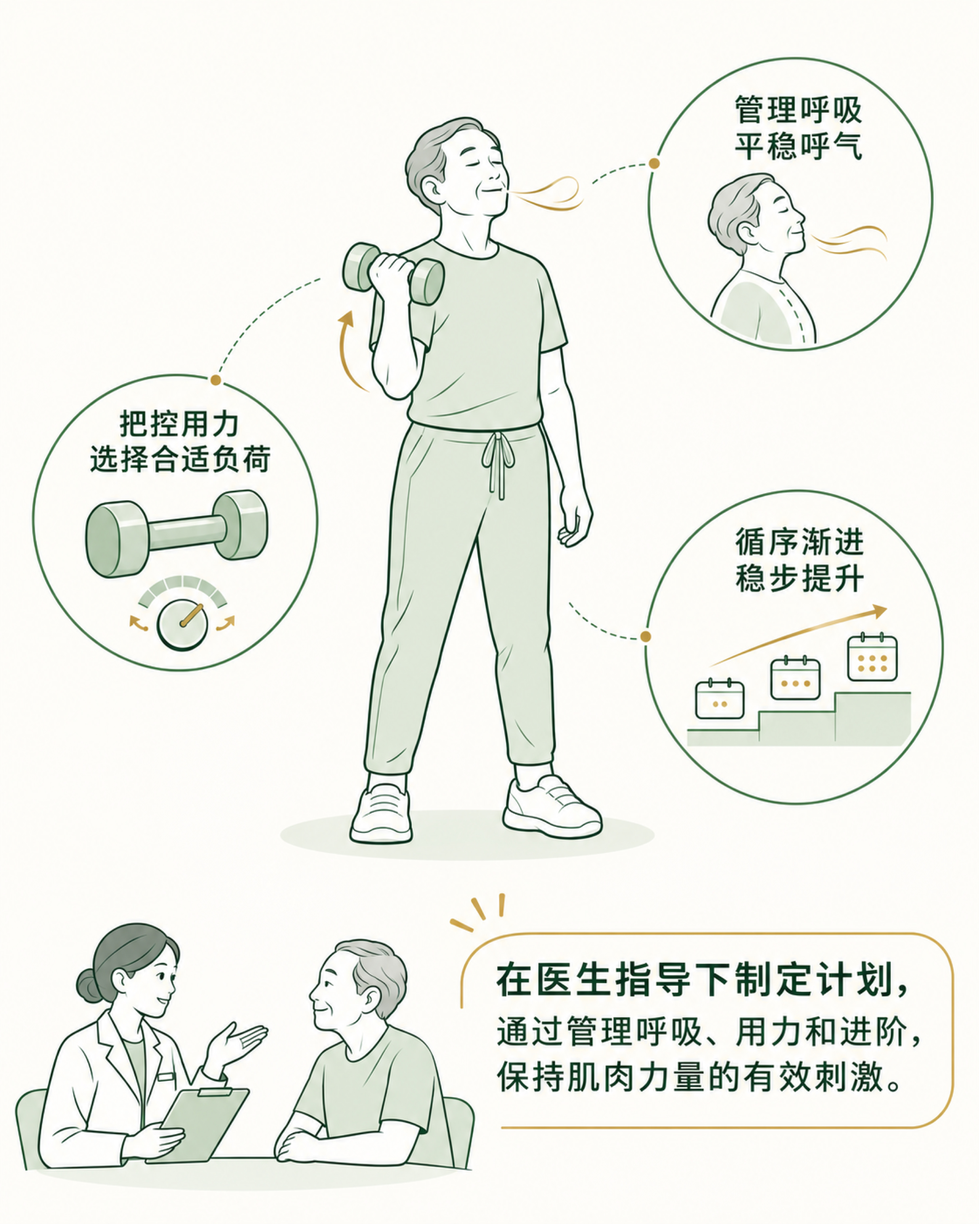
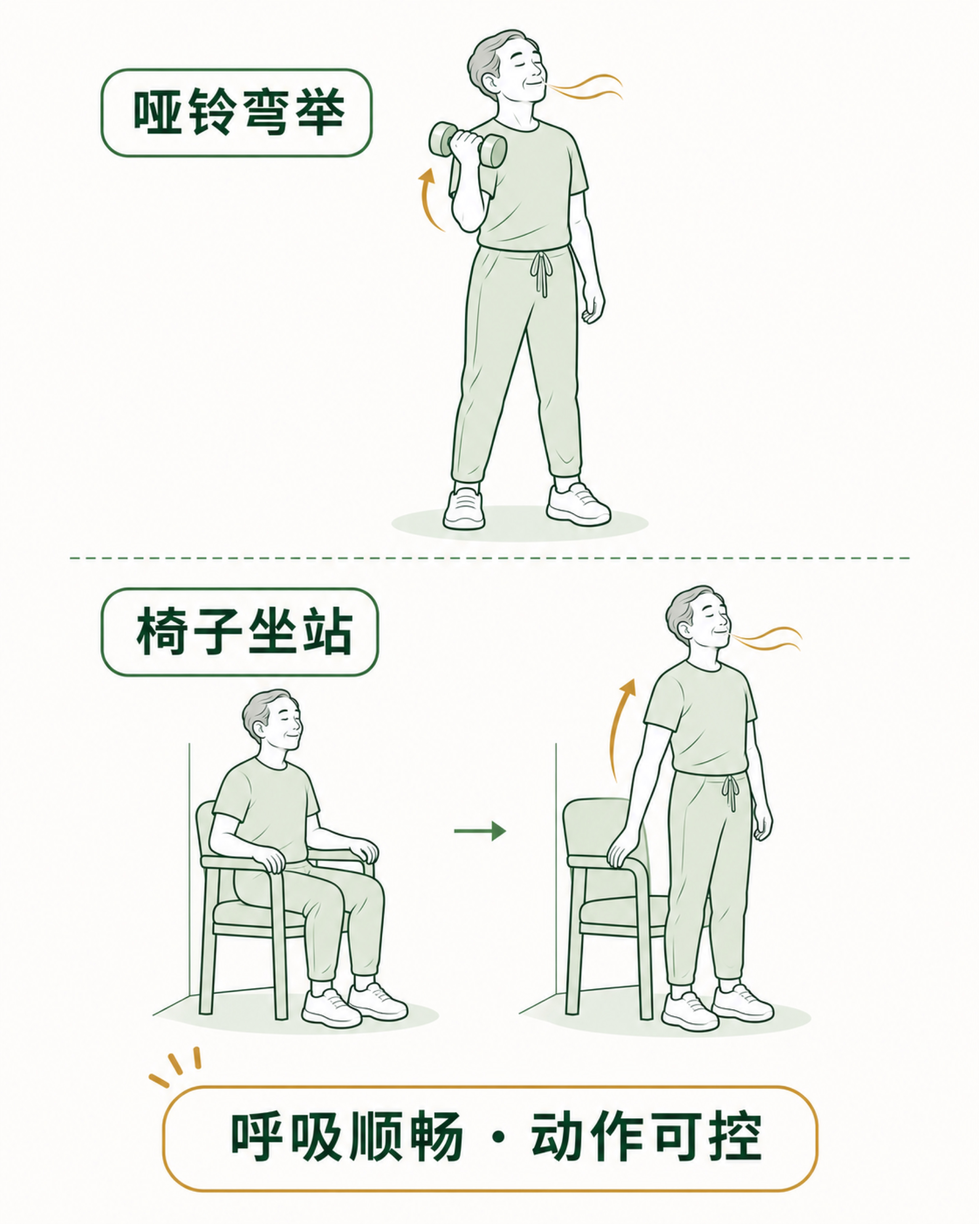
内容：同步公众号成品 2026-11-26

diff --git a/knowledge/README.md b/knowledge/README.md
@@ -63,6 +63,7 @@
 - [第 099 篇｜为什么精英运动员都有“心理教练”？](../platforms/wechat/articles/20261115_第099篇_为什么精英运动员都有“心理教练”？/20261115_第099篇_为什么精英运动员都有“心理教练”？.md)
 - [第 101 篇｜春节后的“报复性健身”，为什么让你更容易受伤？](../platforms/wechat/articles/20261117_第101篇_春节后的“报复性健身”，为什么让你更容易受伤？/20261117_第101篇_春节后的“报复性健身”，为什么让你更容易受伤？.md)
 - [第 108 篇｜中秋国庆长假：如何在旅行中保持身体状态？](../platforms/wechat/articles/20261121_第108篇_中秋国庆长假：如何在旅行中保持身体状态？/20261121_第108篇_中秋国庆长假：如何在旅行中保持身体状态？.md)
+- [第 115 篇｜提踵练强了，为什么一跑步跟腱还是吃不消？](../platforms/wechat/articles/20261126_第115篇_提踵练强了，为什么一跑步跟腱还是吃不消？/20261126_第115篇_提踵练强了，为什么一跑步跟腱还是吃不消？.md)
 
 ### 生活功能与长期健康
 
@@ -123,9 +124,9 @@
 - **站立**：[第 023 篇](../platforms/wechat/articles/20260818_第023篇_为什么瑜伽老师都强调“收腹”？因为腹横肌是你的天然腰带/20260818_第023篇_为什么瑜伽老师都强调“收腹”？因为腹横肌是你的天然腰带.md)、[第 025 篇](../platforms/wechat/articles/20260820_第025篇_为什么运动时要“收核心”？这不是玄学，是物理学/20260820_第025篇_为什么运动时要“收核心”？这不是玄学，是物理学.md)、[第 026 篇](../platforms/wechat/articles/20260821_第026篇_你的“将军肚”，可能是膈肌不会工作了/20260821_第026篇_你的“将军肚”，可能是膈肌不会工作了.md)、[第 032 篇](../platforms/wechat/articles/20260828_第032篇_足底筋膜炎：为什么早上第一步最疼？/20260828_第032篇_足底筋膜炎：为什么早上第一步最疼？.md)、[第 037 篇](../platforms/wechat/articles/20260902_第037篇_梨状肌综合征：屁股痛到腿麻，不一定是腰椎问题/20260902_第037篇_梨状肌综合征：屁股痛到腿麻，不一定是腰椎问题.md)、[第 039 篇](../platforms/wechat/articles/20260904_第039篇_跟腱炎：为什么休息了还是不好？/20260904_第039篇_跟腱炎：为什么休息了还是不好？.md)、[第 047 篇](../platforms/wechat/articles/20260913_第047篇_为什么有人天天练，你一周三次反而进步更快？/20260913_第047篇_为什么有人天天练，你一周三次反而进步更快？.md)、[第 073 篇](../platforms/wechat/articles/20261020_第073篇_为什么你的骨密度在悄悄流失？/20261020_第073篇_为什么你的骨密度在悄悄流失？.md)、[第 076 篇](../platforms/wechat/articles/20261023_第076篇_为什么你的父母越来越“走不动”？/20261023_第076篇_为什么你的父母越来越“走不动”？.md)、[第 077 篇](../platforms/wechat/articles/20261024_第077篇_骨质疏松不是“缺钙”那么简单/20261024_第077篇_骨质疏松不是“缺钙”那么简单.md)、[第 078 篇](../platforms/wechat/articles/20261025_第078篇_为什么老年人容易跌倒？如何预防？/20261025_第078篇_为什么老年人容易跌倒？如何预防？.md)、[第 081 篇](../platforms/wechat/articles/20261028_第081篇_糖尿病不可怕，可怕的是你不知道怎么“动”/20261028_第081篇_糖尿病不可怕，可怕的是你不知道怎么“动”.md)、[第 084 篇](../platforms/wechat/articles/20261031_第084篇_为什么你总是“腰酸背痛腿抽筋”？/20261031_第084篇_为什么你总是“腰酸背痛腿抽筋”？.md)、[第 090 篇](../platforms/wechat/articles/20261106_第090篇_正念运动：为什么瑜伽、太极能让你“身心合一”？/20261106_第090篇_正念运动：为什么瑜伽、太极能让你“身心合一”？.md)、[第 096 篇](../platforms/wechat/articles/20261112_第096篇_柔韧性 vs 灵活性：你真正需要的是哪个？/20261112_第096篇_柔韧性 vs 灵活性：你真正需要的是哪个？.md)、[第 106 篇](../platforms/wechat/articles/20261120_第106篇_久坐办公室开空调，为什么你的肩颈更僵硬了？/20261120_第106篇_久坐办公室开空调，为什么你的肩颈更僵硬了？.md)
 - **坐起**：[第 022 篇](../platforms/wechat/articles/20260817_第022篇_盆底肌松弛不是“生育税”，是可以逆转的/20260817_第022篇_盆底肌松弛不是“生育税”，是可以逆转的.md)、[第 028 篇](../platforms/wechat/articles/20260823_第028篇_跑步膝不是“跑”出来的，是“跑错”出来的/20260823_第028篇_跑步膝不是“跑”出来的，是“跑错”出来的.md)、[第 031 篇](../platforms/wechat/articles/20260827_第031篇_腰椎间盘突出≠腰痛，90% 的人都理解错了/20260827_第031篇_腰椎间盘突出≠腰痛，90% 的人都理解错了.md)、[第 033 篇](../platforms/wechat/articles/20260829_第033篇_半月板损伤后，你真的需要手术吗？/20260829_第033篇_半月板损伤后，你真的需要手术吗？.md)、[第 034 篇](../platforms/wechat/articles/20260830_第034篇_前交叉韧带重建术后，康复比手术更重要/20260830_第034篇_前交叉韧带重建术后，康复比手术更重要.md)、[第 036 篇](../platforms/wechat/articles/20260901_第036篇_髂腰肌综合征：你的“腰痛”可能在髋前/20260901_第036篇_髂腰肌综合征：你的“腰痛”可能在髋前.md)、[第 037 篇](../platforms/wechat/articles/20260902_第037篇_梨状肌综合征：屁股痛到腿麻，不一定是腰椎问题/20260902_第037篇_梨状肌综合征：屁股痛到腿麻，不一定是腰椎问题.md)、[第 042 篇](../platforms/wechat/articles/20260908_第042篇_弹响髋：为什么你的髋关节总是“咔咔”响？/20260908_第042篇_弹响髋：为什么你的髋关节总是“咔咔”响？.md)、[第 044 篇](../platforms/wechat/articles/20260910_第044篇_训练不是越狠越好，而是越“对”越好/20260910_第044篇_训练不是越狠越好，而是越“对”越好.md)、[第 050 篇](../platforms/wechat/articles/20260916_第050篇_运动后的“酸痛”是好事还是坏事？/20260916_第050篇_运动后的“酸痛”是好事还是坏事？.md)、[第 053 篇](../platforms/wechat/articles/20260919_第053篇_为什么运动员都在做“离心训练”？因为它能让你更强更抗伤/20260919_第053篇_为什么运动员都在做“离心训练”？因为它能让你更强更抗伤.md)、[第 065 篇](../platforms/wechat/articles/20261002_第065篇_产后 6 个月是黄金恢复期，错过了怎么办？/20261002_第065篇_产后 6 个月是黄金恢复期，错过了怎么办？.md)、[第 067 篇](../platforms/wechat/articles/20261004_第067篇_漏尿不是“生育税”，是可以逆转的/20261004_第067篇_漏尿不是“生育税”，是可以逆转的.md)、[第 072 篇](../platforms/wechat/articles/20261009_第072篇_孕期还能运动吗？不仅能，而且应该/20261009_第072篇_孕期还能运动吗？不仅能，而且应该.md)、[第 073 篇](../platforms/wechat/articles/20261020_第073篇_为什么你的骨密度在悄悄流失？/20261020_第073篇_为什么你的骨密度在悄悄流失？.md)、[第 075 篇](../platforms/wechat/articles/20261022_第075篇_50 岁以后，你的肌肉每年流失 1-2%/20261022_第075篇_50 岁以后，你的肌肉每年流失 1-2%.md)、[第 076 篇](../platforms/wechat/articles/20261023_第076篇_为什么你的父母越来越“走不动”？/20261023_第076篇_为什么你的父母越来越“走不动”？.md)、[第 078 篇](../platforms/wechat/articles/20261025_第078篇_为什么老年人容易跌倒？如何预防？/20261025_第078篇_为什么老年人容易跌倒？如何预防？.md)、[第 079 篇](../platforms/wechat/articles/20261026_第079篇_退行性关节炎：为什么“省着用”反而更痛？/20261026_第079篇_退行性关节炎：为什么“省着用”反而更痛？.md)、[第 083 篇](../platforms/wechat/articles/20261030_第083篇_认知功能下降：运动可能是最好的“药”/20261030_第083篇_认知功能下降：运动可能是最好的“药”.md)、[第 090 篇](../platforms/wechat/articles/20261106_第090篇_正念运动：为什么瑜伽、太极能让你“身心合一”？/20261106_第090篇_正念运动：为什么瑜伽、太极能让你“身心合一”？.md)、[第 100 篇](../platforms/wechat/articles/20261116_第100篇_从“能动”到“动得好”：功能性训练的终极目标/20261116_第100篇_从“能动”到“动得好”：功能性训练的终极目标.md)、[第 104 篇](../platforms/wechat/articles/20261119_第104篇_夏天到了想露腿？这套方案帮你科学瘦腿不伤膝/20261119_第104篇_夏天到了想露腿？这套方案帮你科学瘦腿不伤膝.md)、[第 108 篇](../platforms/wechat/articles/20261121_第108篇_中秋国庆长假：如何在旅行中保持身体状态？/20261121_第108篇_中秋国庆长假：如何在旅行中保持身体状态？.md)、[第 109 篇](../platforms/wechat/articles/20261122_第109篇_秋冬换季膝盖疼？关节需要“保养”而非“保护”/20261122_第109篇_秋冬换季膝盖疼？关节需要“保养”而非“保护”.md)
 - **步行**：[第 022 篇](../platforms/wechat/articles/20260817_第022篇_盆底肌松弛不是“生育税”，是可以逆转的/20260817_第022篇_盆底肌松弛不是“生育税”，是可以逆转的.md)、[第 025 篇](../platforms/wechat/articles/20260820_第025篇_为什么运动时要“收核心”？这不是玄学，是物理学/20260820_第025篇_为什么运动时要“收核心”？这不是玄学，是物理学.md)、[第 028 篇](../platforms/wechat/articles/20260823_第028篇_跑步膝不是“跑”出来的，是“跑错”出来的/20260823_第028篇_跑步膝不是“跑”出来的，是“跑错”出来的.md)、[第 031 篇](../platforms/wechat/articles/20260827_第031篇_腰椎间盘突出≠腰痛，90% 的人都理解错了/20260827_第031篇_腰椎间盘突出≠腰痛，90% 的人都理解错了.md)、[第 032 篇](../platforms/wechat/articles/20260828_第032篇_足底筋膜炎：为什么早上第一步最疼？/20260828_第032篇_足底筋膜炎：为什么早上第一步最疼？.md)、[第 033 篇](../platforms/wechat/articles/20260829_第033篇_半月板损伤后，你真的需要手术吗？/20260829_第033篇_半月板损伤后，你真的需要手术吗？.md)、[第 036 篇](../platforms/wechat/articles/20260901_第036篇_髂腰肌综合征：你的“腰痛”可能在髋前/20260901_第036篇_髂腰肌综合征：你的“腰痛”可能在髋前.md)、[第 037 篇](../platforms/wechat/articles/20260902_第037篇_梨状肌综合征：屁股痛到腿麻，不一定是腰椎问题/20260902_第037篇_梨状肌综合征：屁股痛到腿麻，不一定是腰椎问题.md)、[第 039 篇](../platforms/wechat/articles/20260904_第039篇_跟腱炎：为什么休息了还是不好？/20260904_第039篇_跟腱炎：为什么休息了还是不好？.md)、[第 040 篇](../platforms/wechat/articles/20260906_第040篇_髌骨软化症：为什么你上下楼梯膝盖疼？/20260906_第040篇_髌骨软化症：为什么你上下楼梯膝盖疼？.md)、[第 042 篇](../platforms/wechat/articles/20260908_第042篇_弹响髋：为什么你的髋关节总是“咔咔”响？/20260908_第042篇_弹响髋：为什么你的髋关节总是“咔咔”响？.md)、[第 044 篇](../platforms/wechat/articles/20260910_第044篇_训练不是越狠越好，而是越“对”越好/20260910_第044篇_训练不是越狠越好，而是越“对”越好.md)、[第 046 篇](../platforms/wechat/articles/20260912_第046篇_睡眠不足 8 小时？你的训练效果可能减半/20260912_第046篇_睡眠不足 8 小时？你的训练效果可能减半.md)、[第 050 篇](../platforms/wechat/articles/20260916_第050篇_运动后的“酸痛”是好事还是坏事？/20260916_第050篇_运动后的“酸痛”是好事还是坏事？.md)、[第 051 篇](../platforms/wechat/articles/20260917_第051篇_为什么有人“喝水都胖”？因为你的代谢被练废了/20260917_第051篇_为什么有人“喝水都胖”？因为你的代谢被练废了.md)、[第 052 篇](../platforms/wechat/articles/20260918_第052篇_有氧运动到底“燃脂”吗？真相可能让你失望/20260918_第052篇_有氧运动到底“燃脂”吗？真相可能让你失望.md)、[第 054 篇](../platforms/wechat/articles/20260920_第054篇_间歇训练 vs 持续有氧：哪个更适合你？/20260920_第054篇_间歇训练 vs 持续有氧：哪个更适合你？.md)、[第 065 篇](../platforms/wechat/articles/20261002_第065篇_产后 6 个月是黄金恢复期，错过了怎么办？/20261002_第065篇_产后 6 个月是黄金恢复期，错过了怎么办？.md)、[第 070 篇](../platforms/wechat/articles/20261007_第070篇_更年期不是“衰老”，是你身体的“第二次青春期”/20261007_第070篇_更年期不是“衰老”，是你身体的“第二次青春期”.md)、[第 072 篇](../platforms/wechat/articles/20261009_第072篇_孕期还能运动吗？不仅能，而且应该/20261009_第072篇_孕期还能运动吗？不仅能，而且应该.md)、[第 073 篇](../platforms/wechat/articles/20261020_第073篇_为什么你的骨密度在悄悄流失？/20261020_第073篇_为什么你的骨密度在悄悄流失？.md)、[第 074 篇](../platforms/wechat/articles/20261021_第074篇_甲亢治疗后为什么容易发胖？减脂和恢复体能该怎么安排？/20261021_第074篇_甲亢治疗后为什么容易发胖？减脂和恢复体能该怎么安排？.md)、[第 076 篇](../platforms/wechat/articles/20261023_第076篇_为什么你的父母越来越“走不动”？/20261023_第076篇_为什么你的父母越来越“走不动”？.md)、[第 077 篇](../platforms/wechat/articles/20261024_第077篇_骨质疏松不是“缺钙”那么简单/20261024_第077篇_骨质疏松不是“缺钙”那么简单.md)、[第 078 篇](../platforms/wechat/articles/20261025_第078篇_为什么老年人容易跌倒？如何预防？/20261025_第078篇_为什么老年人容易跌倒？如何预防？.md)、[第 079 篇](../platforms/wechat/articles/20261026_第079篇_退行性关节炎：为什么“省着用”反而更痛？/20261026_第079篇_退行性关节炎：为什么“省着用”反而更痛？.md)、[第 081 篇](../platforms/wechat/articles/20261028_第081篇_糖尿病不可怕，可怕的是你不知道怎么“动”/20261028_第081篇_糖尿病不可怕，可怕的是你不知道怎么“动”.md)、[第 082 篇](../platforms/wechat/articles/20261029_第082篇_为什么医生说你“代谢综合征”？这是什么病？/20261029_第082篇_为什么医生说你“代谢综合征”？这是什么病？.md)、[第 083 篇](../platforms/wechat/articles/20261030_第083篇_认知功能下降：运动可能是最好的“药”/20261030_第083篇_认知功能下降：运动可能是最好的“药”.md)、[第 084 篇](../platforms/wechat/articles/20261031_第084篇_为什么你总是“腰酸背痛腿抽筋”？/20261031_第084篇_为什么你总是“腰酸背痛腿抽筋”？.md)、[第 086 篇](../platforms/wechat/articles/20261102_第086篇_慢性疼痛的真相：你的大脑可能“记住”了疼痛/20261102_第086篇_慢性疼痛的真相：你的大脑可能“记住”了疼痛.md)、[第 087 篇](../platforms/wechat/articles/20261103_第087篇_为什么运动能“治疗”抑郁症？/20261103_第087篇_为什么运动能“治疗”抑郁症？.md)、[第 088 篇](../platforms/wechat/articles/20261104_第088篇_身体觉察：为什么你需要“听懂”身体的语言？/20261104_第088篇_身体觉察：为什么你需要“听懂”身体的语言？.md)、[第 089 篇](../platforms/wechat/articles/20261105_第089篇_为什么你总是“累”？可能是你的神经系统失调了/20261105_第089篇_为什么你总是“累”？可能是你的神经系统失调了.md)、[第 090 篇](../platforms/wechat/articles/20261106_第090篇_正念运动：为什么瑜伽、太极能让你“身心合一”？/20261106_第090篇_正念运动：为什么瑜伽、太极能让你“身心合一”？.md)、[第 092 篇](../platforms/wechat/articles/20261108_第092篇_呼吸、冥想、运动：科学抗压的“三板斧”/20261108_第092篇_呼吸、冥想、运动：科学抗压的“三板斧”.md)、[第 104 篇](../platforms/wechat/articles/20261119_第104篇_夏天到了想露腿？这套方案帮你科学瘦腿不伤膝/20261119_第104篇_夏天到了想露腿？这套方案帮你科学瘦腿不伤膝.md)、[第 106 篇](../platforms/wechat/articles/20261120_第106篇_久坐办公室开空调，为什么你的肩颈更僵硬了？/20261120_第106篇_久坐办公室开空调，为什么你的肩颈更僵硬了？.md)、[第 108 篇](../platforms/wechat/articles/20261121_第108篇_中秋国庆长假：如何在旅行中保持身体状态？/20261121_第108篇_中秋国庆长假：如何在旅行中保持身体状态？.md)、[第 109 篇](../platforms/wechat/articles/20261122_第109篇_秋冬换季膝盖疼？关节需要“保养”而非“保护”/20261122_第109篇_秋冬换季膝盖疼？关节需要“保养”而非“保护”.md)、[第 112 篇](../platforms/wechat/articles/20261123_第112篇_新年健身计划总是坚持不了？因为你没做好这 3 件事/20261123_第112篇_新年健身计划总是坚持不了？因为你没做好这 3 件事.md)
-- **跑步**：[第 022 篇](../platforms/wechat/articles/20260817_第022篇_盆底肌松弛不是“生育税”，是可以逆转的/20260817_第022篇_盆底肌松弛不是“生育税”，是可以逆转的.md)、[第 028 篇](../platforms/wechat/articles/20260823_第028篇_跑步膝不是“跑”出来的，是“跑错”出来的/20260823_第028篇_跑步膝不是“跑”出来的，是“跑错”出来的.md)、[第 034 篇](../platforms/wechat/articles/20260830_第034篇_前交叉韧带重建术后，康复比手术更重要/20260830_第034篇_前交叉韧带重建术后，康复比手术更重要.md)、[第 039 篇](../platforms/wechat/articles/20260904_第039篇_跟腱炎：为什么休息了还是不好？/20260904_第039篇_跟腱炎：为什么休息了还是不好？.md)、[第 048 篇](../platforms/wechat/articles/20260914_第048篇_拉伸到底有没有用？关键看你“什么时候拉”/20260914_第048篇_拉伸到底有没有用？关键看你“什么时候拉”.md)、[第 054 篇](../platforms/wechat/articles/20260920_第054篇_间歇训练 vs 持续有氧：哪个更适合你？/20260920_第054篇_间歇训练 vs 持续有氧：哪个更适合你？.md)、[第 067 篇](../platforms/wechat/articles/20261004_第067篇_漏尿不是“生育税”，是可以逆转的/20261004_第067篇_漏尿不是“生育税”，是可以逆转的.md)、[第 071 篇](../platforms/wechat/articles/20261008_第071篇_为什么女性更容易膝盖受伤？/20261008_第071篇_为什么女性更容易膝盖受伤？.md)、[第 094 篇](../platforms/wechat/articles/20261110_第094篇_爆发力不是天生的，是可以“练”出来的/20261110_第094篇_爆发力不是天生的，是可以“练”出来的.md)、[第 095 篇](../platforms/wechat/articles/20261111_第095篇_为什么运动员都在做“本体感觉训练”？/20261111_第095篇_为什么运动员都在做“本体感觉训练”？.md)、[第 098 篇](../platforms/wechat/articles/20261114_第098篇_运动专项化：为什么过早专项训练反而限制发展？/20261114_第098篇_运动专项化：为什么过早专项训练反而限制发展？.md)
+- **跑步**：[第 022 篇](../platforms/wechat/articles/20260817_第022篇_盆底肌松弛不是“生育税”，是可以逆转的/20260817_第022篇_盆底肌松弛不是“生育税”，是可以逆转的.md)、[第 028 篇](../platforms/wechat/articles/20260823_第028篇_跑步膝不是“跑”出来的，是“跑错”出来的/20260823_第028篇_跑步膝不是“跑”出来的，是“跑错”出来的.md)、[第 034 篇](../platforms/wechat/articles/20260830_第034篇_前交叉韧带重建术后，康复比手术更重要/20260830_第034篇_前交叉韧带重建术后，康复比手术更重要.md)、[第 039 篇](../platforms/wechat/articles/20260904_第039篇_跟腱炎：为什么休息了还是不好？/20260904_第039篇_跟腱炎：为什么休息了还是不好？.md)、[第 048 篇](../platforms/wechat/articles/20260914_第048篇_拉伸到底有没有用？关键看你“什么时候拉”/20260914_第048篇_拉伸到底有没有用？关键看你“什么时候拉”.md)、[第 054 篇](../platforms/wechat/articles/20260920_第054篇_间歇训练 vs 持续有氧：哪个更适合你？/20260920_第054篇_间歇训练 vs 持续有氧：哪个更适合你？.md)、[第 067 篇](../platforms/wechat/articles/20261004_第067篇_漏尿不是“生育税”，是可以逆转的/20261004_第067篇_漏尿不是“生育税”，是可以逆转的.md)、[第 071 篇](../platforms/wechat/articles/20261008_第071篇_为什么女性更容易膝盖受伤？/20261008_第071篇_为什么女性更容易膝盖受伤？.md)、[第 094 篇](../platforms/wechat/articles/20261110_第094篇_爆发力不是天生的，是可以“练”出来的/20261110_第094篇_爆发力不是天生的，是可以“练”出来的.md)、[第 095 篇](../platforms/wechat/articles/20261111_第095篇_为什么运动员都在做“本体感觉训练”？/20261111_第095篇_为什么运动员都在做“本体感觉训练”？.md)、[第 098 篇](../platforms/wechat/articles/20261114_第098篇_运动专项化：为什么过早专项训练反而限制发展？/20261114_第098篇_运动专项化：为什么过早专项训练反而限制发展？.md)、[第 115 篇](../platforms/wechat/articles/20261126_第115篇_提踵练强了，为什么一跑步跟腱还是吃不消？/20261126_第115篇_提踵练强了，为什么一跑步跟腱还是吃不消？.md)
 - **上下楼**：[第 022 篇](../platforms/wechat/articles/20260817_第022篇_盆底肌松弛不是“生育税”，是可以逆转的/20260817_第022篇_盆底肌松弛不是“生育税”，是可以逆转的.md)、[第 028 篇](../platforms/wechat/articles/20260823_第028篇_跑步膝不是“跑”出来的，是“跑错”出来的/20260823_第028篇_跑步膝不是“跑”出来的，是“跑错”出来的.md)、[第 033 篇](../platforms/wechat/articles/20260829_第033篇_半月板损伤后，你真的需要手术吗？/20260829_第033篇_半月板损伤后，你真的需要手术吗？.md)、[第 034 篇](../platforms/wechat/articles/20260830_第034篇_前交叉韧带重建术后，康复比手术更重要/20260830_第034篇_前交叉韧带重建术后，康复比手术更重要.md)、[第 036 篇](../platforms/wechat/articles/20260901_第036篇_髂腰肌综合征：你的“腰痛”可能在髋前/20260901_第036篇_髂腰肌综合征：你的“腰痛”可能在髋前.md)、[第 040 篇](../platforms/wechat/articles/20260906_第040篇_髌骨软化症：为什么你上下楼梯膝盖疼？/20260906_第040篇_髌骨软化症：为什么你上下楼梯膝盖疼？.md)、[第 042 篇](../platforms/wechat/articles/20260908_第042篇_弹响髋：为什么你的髋关节总是“咔咔”响？/20260908_第042篇_弹响髋：为什么你的髋关节总是“咔咔”响？.md)、[第 044 篇](../platforms/wechat/articles/20260910_第044篇_训练不是越狠越好，而是越“对”越好/20260910_第044篇_训练不是越狠越好，而是越“对”越好.md)、[第 046 篇](../platforms/wechat/articles/20260912_第046篇_睡眠不足 8 小时？你的训练效果可能减半/20260912_第046篇_睡眠不足 8 小时？你的训练效果可能减半.md)、[第 048 篇](../platforms/wechat/articles/20260914_第048篇_拉伸到底有没有用？关键看你“什么时候拉”/20260914_第048篇_拉伸到底有没有用？关键看你“什么时候拉”.md)、[第 050 篇](../platforms/wechat/articles/20260916_第050篇_运动后的“酸痛”是好事还是坏事？/20260916_第050篇_运动后的“酸痛”是好事还是坏事？.md)、[第 053 篇](../platforms/wechat/articles/20260919_第053篇_为什么运动员都在做“离心训练”？因为它能让你更强更抗伤/20260919_第053篇_为什么运动员都在做“离心训练”？因为它能让你更强更抗伤.md)、[第 054 篇](../platforms/wechat/articles/20260920_第054篇_间歇训练 vs 持续有氧：哪个更适合你？/20260920_第054篇_间歇训练 vs 持续有氧：哪个更适合你？.md)、[第 067 篇](../platforms/wechat/articles/20261004_第067篇_漏尿不是“生育税”，是可以逆转的/20261004_第067篇_漏尿不是“生育税”，是可以逆转的.md)、[第 070 篇](../platforms/wechat/articles/20261007_第070篇_更年期不是“衰老”，是你身体的“第二次青春期”/20261007_第070篇_更年期不是“衰老”，是你身体的“第二次青春期”.md)、[第 072 篇](../platforms/wechat/articles/20261009_第072篇_孕期还能运动吗？不仅能，而且应该/20261009_第072篇_孕期还能运动吗？不仅能，而且应该.md)、[第 075 篇](../platforms/wechat/articles/20261022_第075篇_50 岁以后，你的肌肉每年流失 1-2%/20261022_第075篇_50 岁以后，你的肌肉每年流失 1-2%.md)、[第 078 篇](../platforms/wechat/articles/20261025_第078篇_为什么老年人容易跌倒？如何预防？/20261025_第078篇_为什么老年人容易跌倒？如何预防？.md)、[第 079 篇](../platforms/wechat/articles/20261026_第079篇_退行性关节炎：为什么“省着用”反而更痛？/20261026_第079篇_退行性关节炎：为什么“省着用”反而更痛？.md)、[第 082 篇](../platforms/wechat/articles/20261029_第082篇_为什么医生说你“代谢综合征”？这是什么病？/20261029_第082篇_为什么医生说你“代谢综合征”？这是什么病？.md)、[第 086 篇](../platforms/wechat/articles/20261102_第086篇_慢性疼痛的真相：你的大脑可能“记住”了疼痛/20261102_第086篇_慢性疼痛的真相：你的大脑可能“记住”了疼痛.md)、[第 094 篇](../platforms/wechat/articles/20261110_第094篇_爆发力不是天生的，是可以“练”出来的/20261110_第094篇_爆发力不是天生的，是可以“练”出来的.md)、[第 098 篇](../platforms/wechat/articles/20261114_第098篇_运动专项化：为什么过早专项训练反而限制发展？/20261114_第098篇_运动专项化：为什么过早专项训练反而限制发展？.md)、[第 100 篇](../platforms/wechat/articles/20261116_第100篇_从“能动”到“动得好”：功能性训练的终极目标/20261116_第100篇_从“能动”到“动得好”：功能性训练的终极目标.md)、[第 108 篇](../platforms/wechat/articles/20261121_第108篇_中秋国庆长假：如何在旅行中保持身体状态？/20261121_第108篇_中秋国庆长假：如何在旅行中保持身体状态？.md)、[第 109 篇](../platforms/wechat/articles/20261122_第109篇_秋冬换季膝盖疼？关节需要“保养”而非“保护”/20261122_第109篇_秋冬换季膝盖疼？关节需要“保养”而非“保护”.md)
-- **单腿支撑**：[第 023 篇](../platforms/wechat/articles/20260818_第023篇_为什么瑜伽老师都强调“收腹”？因为腹横肌是你的天然腰带/20260818_第023篇_为什么瑜伽老师都强调“收腹”？因为腹横肌是你的天然腰带.md)、[第 034 篇](../platforms/wechat/articles/20260830_第034篇_前交叉韧带重建术后，康复比手术更重要/20260830_第034篇_前交叉韧带重建术后，康复比手术更重要.md)、[第 036 篇](../platforms/wechat/articles/20260901_第036篇_髂腰肌综合征：你的“腰痛”可能在髋前/20260901_第036篇_髂腰肌综合征：你的“腰痛”可能在髋前.md)、[第 042 篇](../platforms/wechat/articles/20260908_第042篇_弹响髋：为什么你的髋关节总是“咔咔”响？/20260908_第042篇_弹响髋：为什么你的髋关节总是“咔咔”响？.md)、[第 053 篇](../platforms/wechat/articles/20260919_第053篇_为什么运动员都在做“离心训练”？因为它能让你更强更抗伤/20260919_第053篇_为什么运动员都在做“离心训练”？因为它能让你更强更抗伤.md)、[第 071 篇](../platforms/wechat/articles/20261008_第071篇_为什么女性更容易膝盖受伤？/20261008_第071篇_为什么女性更容易膝盖受伤？.md)、[第 076 篇](../platforms/wechat/articles/20261023_第076篇_为什么你的父母越来越“走不动”？/20261023_第076篇_为什么你的父母越来越“走不动”？.md)、[第 095 篇](../platforms/wechat/articles/20261111_第095篇_为什么运动员都在做“本体感觉训练”？/20261111_第095篇_为什么运动员都在做“本体感觉训练”？.md)、[第 096 篇](../platforms/wechat/articles/20261112_第096篇_柔韧性 vs 灵活性：你真正需要的是哪个？/20261112_第096篇_柔韧性 vs 灵活性：你真正需要的是哪个？.md)
+- **单腿支撑**：[第 023 篇](../platforms/wechat/articles/20260818_第023篇_为什么瑜伽老师都强调“收腹”？因为腹横肌是你的天然腰带/20260818_第023篇_为什么瑜伽老师都强调“收腹”？因为腹横肌是你的天然腰带.md)、[第 034 篇](../platforms/wechat/articles/20260830_第034篇_前交叉韧带重建术后，康复比手术更重要/20260830_第034篇_前交叉韧带重建术后，康复比手术更重要.md)、[第 036 篇](../platforms/wechat/articles/20260901_第036篇_髂腰肌综合征：你的“腰痛”可能在髋前/20260901_第036篇_髂腰肌综合征：你的“腰痛”可能在髋前.md)、[第 042 篇](../platforms/wechat/articles/20260908_第042篇_弹响髋：为什么你的髋关节总是“咔咔”响？/20260908_第042篇_弹响髋：为什么你的髋关节总是“咔咔”响？.md)、[第 053 篇](../platforms/wechat/articles/20260919_第053篇_为什么运动员都在做“离心训练”？因为它能让你更强更抗伤/20260919_第053篇_为什么运动员都在做“离心训练”？因为它能让你更强更抗伤.md)、[第 071 篇](../platforms/wechat/articles/20261008_第071篇_为什么女性更容易膝盖受伤？/20261008_第071篇_为什么女性更容易膝盖受伤？.md)、[第 076 篇](../platforms/wechat/articles/20261023_第076篇_为什么你的父母越来越“走不动”？/20261023_第076篇_为什么你的父母越来越“走不动”？.md)、[第 095 篇](../platforms/wechat/articles/20261111_第095篇_为什么运动员都在做“本体感觉训练”？/20261111_第095篇_为什么运动员都在做“本体感觉训练”？.md)、[第 096 篇](../platforms/wechat/articles/20261112_第096篇_柔韧性 vs 灵活性：你真正需要的是哪个？/20261112_第096篇_柔韧性 vs 灵活性：你真正需要的是哪个？.md)、[第 115 篇](../platforms/wechat/articles/20261126_第115篇_提踵练强了，为什么一跑步跟腱还是吃不消？/20261126_第115篇_提踵练强了，为什么一跑步跟腱还是吃不消？.md)
 - **深蹲**：[第 043 篇](../platforms/wechat/articles/20260909_第043篇_为什么你越练越累？因为你不懂“恢复预算”/20260909_第043篇_为什么你越练越累？因为你不懂“恢复预算”.md)、[第 046 篇](../platforms/wechat/articles/20260912_第046篇_睡眠不足 8 小时？你的训练效果可能减半/20260912_第046篇_睡眠不足 8 小时？你的训练效果可能减半.md)、[第 048 篇](../platforms/wechat/articles/20260914_第048篇_拉伸到底有没有用？关键看你“什么时候拉”/20260914_第048篇_拉伸到底有没有用？关键看你“什么时候拉”.md)、[第 050 篇](../platforms/wechat/articles/20260916_第050篇_运动后的“酸痛”是好事还是坏事？/20260916_第050篇_运动后的“酸痛”是好事还是坏事？.md)、[第 063 篇](../platforms/wechat/articles/20260930_第063篇_为什么你喝了蛋白粉，肌肉还是不长？/20260930_第063篇_为什么你喝了蛋白粉，肌肉还是不长？.md)、[第 071 篇](../platforms/wechat/articles/20261008_第071篇_为什么女性更容易膝盖受伤？/20261008_第071篇_为什么女性更容易膝盖受伤？.md)、[第 097 篇](../platforms/wechat/articles/20261113_第097篇_为什么你的深蹲重量上不去？可能是踝关节的问题/20261113_第097篇_为什么你的深蹲重量上不去？可能是踝关节的问题.md)、[第 098 篇](../platforms/wechat/articles/20261114_第098篇_运动专项化：为什么过早专项训练反而限制发展？/20261114_第098篇_运动专项化：为什么过早专项训练反而限制发展？.md)、[第 108 篇](../platforms/wechat/articles/20261121_第108篇_中秋国庆长假：如何在旅行中保持身体状态？/20261121_第108篇_中秋国庆长假：如何在旅行中保持身体状态？.md)、[第 109 篇](../platforms/wechat/articles/20261122_第109篇_秋冬换季膝盖疼？关节需要“保养”而非“保护”/20261122_第109篇_秋冬换季膝盖疼？关节需要“保养”而非“保护”.md)
 - **髋铰链**：[第 031 篇](../platforms/wechat/articles/20260827_第031篇_腰椎间盘突出≠腰痛，90% 的人都理解错了/20260827_第031篇_腰椎间盘突出≠腰痛，90% 的人都理解错了.md)、[第 045 篇](../platforms/wechat/articles/20260911_第045篇_为什么专业运动员要“周期化训练”？因为身体不是机器/20260911_第045篇_为什么专业运动员要“周期化训练”？因为身体不是机器.md)、[第 049 篇](../platforms/wechat/articles/20260915_第049篇_为什么你的力量总是卡在某个重量上不去？/20260915_第049篇_为什么你的力量总是卡在某个重量上不去？.md)、[第 073 篇](../platforms/wechat/articles/20261020_第073篇_为什么你的骨密度在悄悄流失？/20261020_第073篇_为什么你的骨密度在悄悄流失？.md)、[第 104 篇](../platforms/wechat/articles/20261119_第104篇_夏天到了想露腿？这套方案帮你科学瘦腿不伤膝/20261119_第104篇_夏天到了想露腿？这套方案帮你科学瘦腿不伤膝.md)
 - **推**：[第 023 篇](../platforms/wechat/articles/20260818_第023篇_为什么瑜伽老师都强调“收腹”？因为腹横肌是你的天然腰带/20260818_第023篇_为什么瑜伽老师都强调“收腹”？因为腹横肌是你的天然腰带.md)、[第 024 篇](../platforms/wechat/articles/20260819_第024篇_平板支撑做到塌腰，不如不做/20260819_第024篇_平板支撑做到塌腰，不如不做.md)、[第 038 篇](../platforms/wechat/articles/20260903_第038篇_肩峰下撞击综合征：为什么你一抬手就疼？/20260903_第038篇_肩峰下撞击综合征：为什么你一抬手就疼？.md)、[第 044 篇](../platforms/wechat/articles/20260910_第044篇_训练不是越狠越好，而是越“对”越好/20260910_第044篇_训练不是越狠越好，而是越“对”越好.md)、[第 051 篇](../platforms/wechat/articles/20260917_第051篇_为什么有人“喝水都胖”？因为你的代谢被练废了/20260917_第051篇_为什么有人“喝水都胖”？因为你的代谢被练废了.md)、[第 063 篇](../platforms/wechat/articles/20260930_第063篇_为什么你喝了蛋白粉，肌肉还是不长？/20260930_第063篇_为什么你喝了蛋白粉，肌肉还是不长？.md)、[第 066 篇](../platforms/wechat/articles/20261003_第066篇_为什么生完孩子后，你的肚子“松松垮垮”？/20261003_第066篇_为什么生完孩子后，你的肚子“松松垮垮”？.md)、[第 072 篇](../platforms/wechat/articles/20261009_第072篇_孕期还能运动吗？不仅能，而且应该/20261009_第072篇_孕期还能运动吗？不仅能，而且应该.md)、[第 093 篇](../platforms/wechat/articles/20261109_第093篇_为什么专业运动员都在练“动物流”？/20261109_第093篇_为什么专业运动员都在练“动物流”？.md)、[第 094 篇](../platforms/wechat/articles/20261110_第094篇_爆发力不是天生的，是可以“练”出来的/20261110_第094篇_爆发力不是天生的，是可以“练”出来的.md)

diff --git a/platforms/wechat/articles/20261124_第113篇_有高血压就该少练力量？真正要管理的是压力反应，不是哑铃本身/20261124_第113篇_有高血压就该少练力量？真正要管理的是压力反应，不是哑铃本身.md b/platforms/wechat/articles/20261124_第113篇_有高血压就该少练力量？真正要管理的是压力反应，不是哑铃本身/20261124_第113篇_有高血压就该少练力量？真正要管理的是压力反应，不是哑铃本身.md
@@ -10,43 +10,57 @@
 >
 > 答：不能只按哑铃重量决定去留。稳定治疗并完成运动评估后，力量训练可以保留；更需要管理的是憋气、冲极限和突然加量造成的压力峰值。
 
-## 01｜一次举起时升压，不等于长期练会升压
+## 01｜举起时血压上升，不等于哑铃该出局
 
-肌肉收缩会挤压其中的血管，神经系统也会调动心脏和血管来供应活动；两者使一组动作中的血压暂时升高。这是即时反应，不等于静息血压会被长期练高。
+肌肉收缩会挤压其中的血管，神经系统也会调动心脏和血管供血，因此动作中的血压会暂时升高。
 
-规律抗阻训练有助于维护肌力，也可能降低静息血压。欧洲心脏病学会的高血压指南把中低强度抗阻训练列为有氧训练的补充；它讨论的是经过评估后的长期安排，不能替某次冲极限背书。
+静息血压反映的是长期状态：规律抗阻训练可能使它下降，却不能保证每个人都降。
+
+憋气硬撑会明显改变胸腔压力，也可能放大举起时的血压反应；负荷骤增更容易让人靠屏气完成动作。
+
+欧洲心脏病学会建议以有氧训练为基础，辅以中低强度抗阻训练。这是经过评估的长期安排，不能替某次冲极限背书。
 
 【插图 1｜短时升压与长期趋势机制】请在此处插入
 
 对应文件：20261124_第113篇_有高血压就该少练力量？真正要管理的是压力反应，不是哑铃本身_插图01_短时升压与长期趋势机制.jpg
 
-## 02｜相同哑铃，压力反应也可能很不同
+## 02｜例子一：哑铃弯举，先看能否从容呼吸
 
-举起时憋气硬顶，胸腔内压力会明显变化；肌肉收缩越强、持续越久，血压反应也可能越大。若重量、次数和组数突然一起增加，原本可控的动作也可能变成硬撑。
+医生确认可练、训练人员了解用药后，可用哑铃弯举练上肢。双脚与髋同宽站稳，手持哑铃垂于体侧、肘靠近身体；举起时缓缓呼气，放下时吸气，肩不耸、腰不后仰。
 
-因此评估一组训练时，我会看呼吸是否连续、动作是否需要咬牙硬撑，以及负荷有没有突然跳升。器械重量只是其中一个条件，不能单独代表压力反应。
+每组以能持续呼吸、保持动作控制并留有余力为限；次数和重量由训练人员按现有能力定，不追求力竭。
+
+若开始摆身、屏气或紧握到发抖，先减轻哑铃；站姿不稳可改为背部有支撑的坐姿。出现肩痛或头晕时停止。
+
+连续多次能稳定完成、恢复良好，再由训练人员决定是否加量。
 
 【插图 2｜同一重量的两种用力方式对照】请在此处插入
 
 对应文件：20261124_第113篇_有高血压就该少练力量？真正要管理的是压力反应，不是哑铃本身_插图02_同一重量的两种用力方式对照.jpg
 
-## 03｜保留力量刺激，先改制造压力峰值的条件
+## 03｜例子二：椅子坐站，让腿部力量回到生活
 
-病情相对稳定、医生已评估运动边界时，训练人员可以优先保留可控制的动态抗阻动作，把呼吸顺畅、动作不过度挣扎和负荷渐进作为调整依据；不必因为诊断名称把力量训练一笔勾销。
+把稳固、无滚轮的椅子靠墙，坐在前缘，双脚踩实、身体略前倾。起身时呼气，站稳后慢慢坐回并吸气，不猛冲、不屏气；这直接练日常起身。
 
-如果同一动作到了后半程总要憋气，训练人员可以先调整阻力或每组负荷，再决定如何保留力量刺激。“练到力竭”不该成为这类人群证明训练有效的标准。
+训练人员可按能否连续呼吸和控制下降来定每组次数。
+
+若需要猛甩身体才站得起来，先换较高的稳固座面或借扶手；若持续平稳且恢复良好，再减少扶手帮助，不急着抱哑铃加重。
+
+膝痛、站起时头晕或必须屏气时停止，交由训练人员重新调整。
 
 【插图 3｜先调压力条件再谈加量建议】请在此处插入
 
 对应文件：20261124_第113篇_有高血压就该少练力量？真正要管理的是压力反应，不是哑铃本身_插图03_先调压力条件再谈加量建议.jpg
 
-## 04｜用药与危险信号，不能被训练感觉替代
+## 04｜动作可调，也要守住医疗边界
 
-正在服用β受体阻滞剂的人，运动时心率上升可能变钝；手表心率因此不能单独代表吃力程度。用药方案由医生决定，不为训练自行停药或改量。
+这两个例子不是“高血压安全动作清单”。病情控制不稳、用药刚调整，或医生限制运动时，先与医生重新确认运动边界。
 
-若训练中出现胸痛、明显气短、头晕欲晕，或突然口齿不清、单侧无力，应立即停止并及时就医。
+服用β受体阻滞剂的人，心率反应可能变钝，不能只看手表心率判断吃力，更不能为了训练自行改药。
 
-病情控制不稳或用药刚调整时，应重新与医生确认运动边界。平时把规范测得的血压趋势、用药变化和训练中的吃力程度交给医疗与训练人员复盘，用于长期调整，而不是凭一次读数给当天训练放行。
+训练中若出现胸痛、突发明显气短、晕厥，或突然口齿不清、单侧无力，应立即停止并呼叫急救；头晕欲晕也要停下，尽快就医。
+
+平时由医疗和训练人员结合规范测得的血压趋势、用药变化与训练反应调整计划，不凭一次读数放行当天训练。
 
 ## 下期预告
 

diff --git a/platforms/wechat/articles/20261126_第115篇_提踵练强了，为什么一跑步跟腱还是吃不消？/20261126_第115篇_提踵练强了，为什么一跑步跟腱还是吃不消？.md b/platforms/wechat/articles/20261126_第115篇_提踵练强了，为什么一跑步跟腱还是吃不消？/20261126_第115篇_提踵练强了，为什么一跑步跟腱还是吃不消？.md
@@ -1,0 +1,74 @@
+> 标题备选方案（推荐：B）
+>
+> A｜热点连接型：系统综述提示受力峰值可能重叠：为什么重提踵仍不能代表回跑？
+>
+> B｜痛点直击型：提踵练强了，为什么一跑步跟腱还是吃不消？
+>
+> C｜专业反常识型：重提踵过关，不等于跟腱已经准备好跑步
+>
+> 问：我现在提踵能做得更重了，可一开始跑，跟腱还是紧、痛，甚至第二天更明显，是力量还不够吗？
+>
+> 答：不一定。重提踵主要证明你能在较慢、可预期的条件下产力；跑步还要求跟腱在更短时间内反复储能、回弹，并承受连续步数。两者有交集，却不是同一项能力。
+
+## 01｜提踵练的是产力，跑步还要赶上时间
+
+小腿三头肌收缩，经跟腱把力量传到脚上。慢速提踵给了身体较长时间把力量建立起来，动作节奏和休息也比较可控。
+
+跑步每次落地到推地的时间更短。同样能完成一次发力，不代表能在这段短时间里及时产力，也不代表跟腱能接住快速变化。
+
+【插图 1｜慢速提踵与跑步时间对照】请在此处插入
+对应文件：20261126_第115篇_提踵练强了，为什么一跑步跟腱还是吃不消？_插图01_慢速提踵与跑步时间对照.jpg
+
+## 02｜跟腱还承担储能和回弹
+
+跑步落地时，小腿—跟腱系统先吸收力量，跟腱拉长并储存弹性能量；推地时再释放。肌肉负责调节张力，跟腱负责传力和回弹，两者需要在短时间内协同。
+
+对跟腱负荷的系统综述提示，跑步与部分提踵任务的峰值受力可能重叠；真正拉开任务差异的，还包括受力速度、持续时间和重复方式。只看重量，会漏掉后面三项。
+
+【插图 2｜跑步中的储能回弹机制】请在此处插入
+对应文件：20261126_第115篇_提踵练强了，为什么一跑步跟腱还是吃不消？_插图02_跑步中的储能回弹机制.jpg
+
+## 03｜连续步数会把单次能力变成累积暴露
+
+提踵通常按组完成，组间可以休息；跑步却把落地—储能—推地连续重复。前几步能承受，不代表跑到后面仍保持同样能力。
+
+这就是为什么有人跑时尚可，停下后更紧，或第二天晨起反应更明显。限制未必只是“力量不够”，也可能是连续暴露超出了当前耐受。
+
+## 04｜回跑要分开看三种能力
+
+1｜慢速产力
+
+提踵重量、动作范围和左右表现，回答的是慢速条件下能否稳定产力。
+
+2｜快速受力
+
+疼痛和晨僵相对稳定、并确认适合进入下一阶段后，训练人员可用更快提踵或低幅弹性任务，观察能否及时接住力量、保持节奏，以及反应会不会持续加重。
+
+3｜连续暴露
+
+再结合跑走交替或短时连续跑后的当次与次日反应，判断当前耐受。
+
+这些比较只能作为观察线索，不能替代诊断，也不能让一次重提踵替整段跑步发通行证。
+
+【插图 3｜回跑前的三层能力路径】请在此处插入
+对应文件：20261126_第115篇_提踵练强了，为什么一跑步跟腱还是吃不消？_插图03_回跑前的三层能力路径.jpg
+
+## 05｜出现这些情况先停止自测
+
+如果出现突然的“啪”声或像被踢了一下，随后快速肿胀、瘀青，明显失去蹬地能力或无法正常行走，应尽快急诊或骨科评估，不要继续自测。
+
+若疼痛持续加重、开始改变步态，或训练调整后仍反复，也应转专业评估。跟腱附着点疼痛、急性损伤和术后情况不能直接套用同一回跑路径。
+
+## 下期预告
+
+**下一篇：《腿举后膝痛有改善，过一段时间又反复是为什么》**
+
+——下一篇分清短时好转、训练加量和日常负荷之间，究竟是哪一环让膝痛再次出现。
+
+你的身体，更容易从哪一环开始代偿？
+
+私信关键词“结构”，领取《体态自测清单》《问题评估顺序》和《第一周零负担入门》。
+
+先找到最该处理的一环，再决定怎么练。
+
+> 说明：本文为运动与健康管理经验分享，不替代医疗诊断；如有明确伤病或持续疼痛，请先就医评估。

diff --git a/platforms/wechat/articles/README.md b/platforms/wechat/articles/README.md
@@ -98,5 +98,6 @@
 - [第 112 篇｜新年健身计划总是坚持不了？因为你没做好这 3 件事](20261123_第112篇_新年健身计划总是坚持不了？因为你没做好这 3 件事/20261123_第112篇_新年健身计划总是坚持不了？因为你没做好这 3 件事.md)
 - [第 113 篇｜有高血压就该少练力量？真正要管理的是压力反应，不是哑铃本身](20261124_第113篇_有高血压就该少练力量？真正要管理的是压力反应，不是哑铃本身/20261124_第113篇_有高血压就该少练力量？真正要管理的是压力反应，不是哑铃本身.md)
 - [第 114 篇｜智能手表里的心率和“血压”，慢病训练能信到哪一步？](20261125_第114篇_智能手表里的心率和“血压”，慢病训练能信到哪一步？/20261125_第114篇_智能手表里的心率和“血压”，慢病训练能信到哪一步？.md)
+- [第 115 篇｜提踵练强了，为什么一跑步跟腱还是吃不消？](20261126_第115篇_提踵练强了，为什么一跑步跟腱还是吃不消？/20261126_第115篇_提踵练强了，为什么一跑步跟腱还是吃不消？.md)
 
 结构化索引见 [`catalog/articles.json`](../../../catalog/articles.json)。

diff --git a/platforms/wechat/articles/20261124_第113篇_有高血压就该少练力量？真正要管理的是压力反应，不是哑铃本身/20261124_第113篇_有高血压就该少练力量？真正要管理的是压力反应，不是哑铃本身_公众号摘要.md b/platforms/wechat/articles/20261124_第113篇_有高血压就该少练力量？真正要管理的是压力反应，不是哑铃本身/20261124_第113篇_有高血压就该少练力量？真正要管理的是压力反应，不是哑铃本身_公众号摘要.md
@@ -1,1 +1,1 @@
-高血压不等于必须放弃力量训练，一次举起时的血压上升也不能代表长期结果。更值得管理的是憋气硬撑、冲极限和负荷骤增；在医疗评估与用药管理下，把呼吸、吃力程度和规范测得的血压趋势一起用于调整长期计划。
+高血压不等于必须放弃哑铃，动作中的短时升压也不等于长期血压变高。医生确认运动边界后，训练人员可在哑铃弯举和椅子坐站中观察呼吸、代偿与用力反应，再决定如何调整负荷。

diff --git a/platforms/wechat/articles/20261126_第115篇_提踵练强了，为什么一跑步跟腱还是吃不消？/20261126_第115篇_提踵练强了，为什么一跑步跟腱还是吃不消？_公众号摘要.md b/platforms/wechat/articles/20261126_第115篇_提踵练强了，为什么一跑步跟腱还是吃不消？/20261126_第115篇_提踵练强了，为什么一跑步跟腱还是吃不消？_公众号摘要.md
@@ -1,0 +1,1 @@
+提踵重量上升，只说明慢速产力在进步，并不能替跟腱完成跑步中的快速储能、回弹和连续受力。判断回跑缺口时，应把慢速力量、快速受力与连续暴露分开，并结合当次和次日反应逐层推进。
